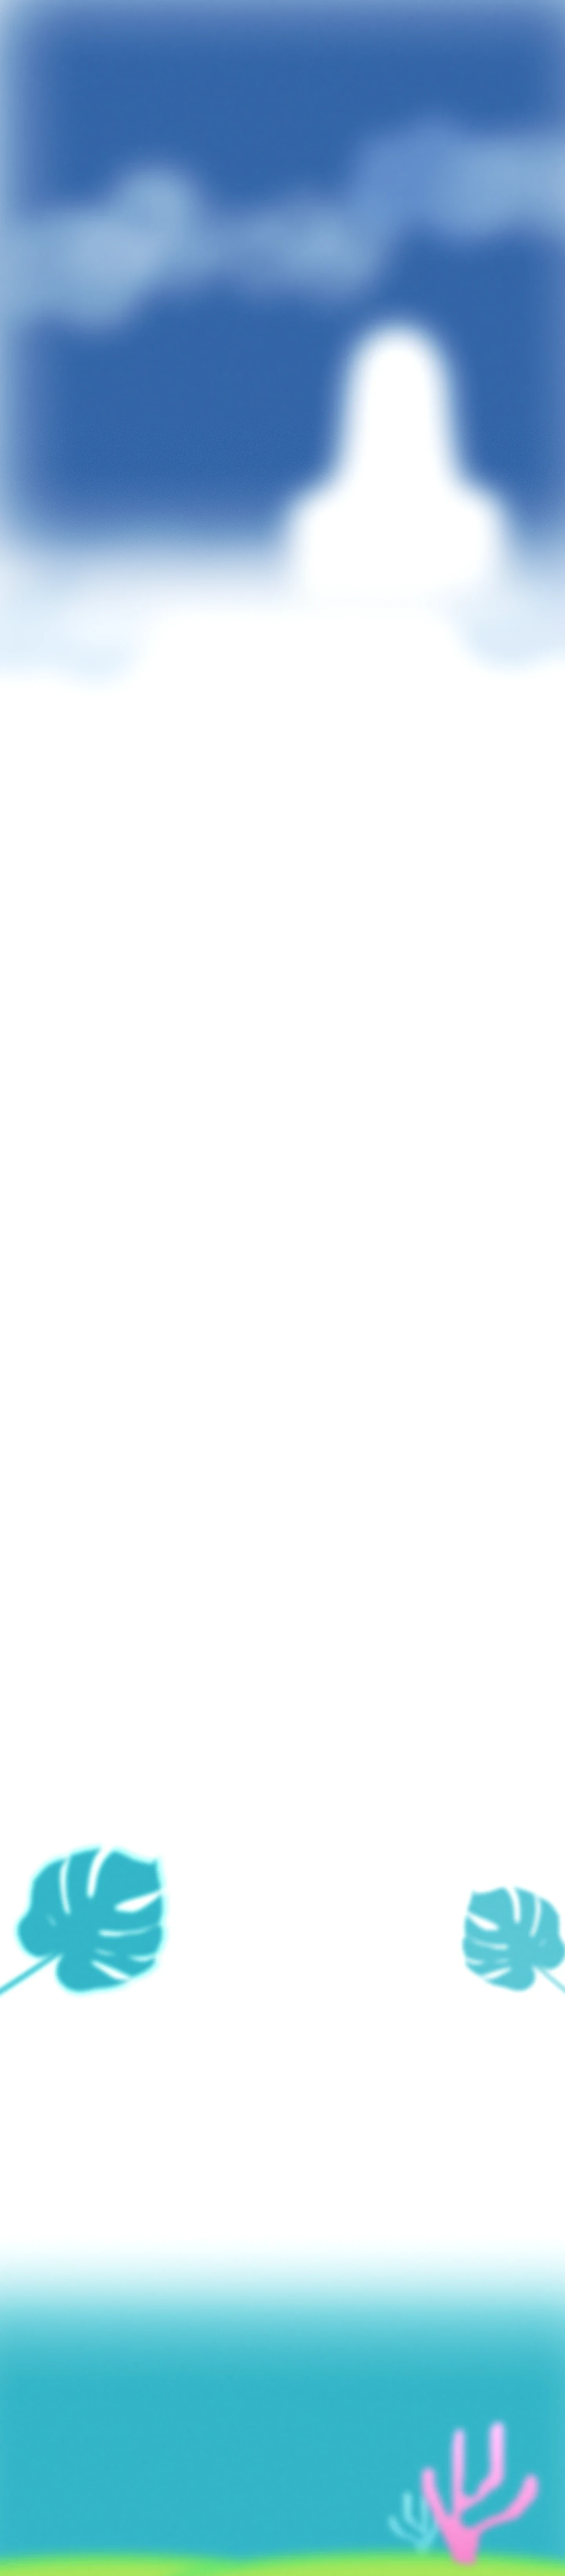
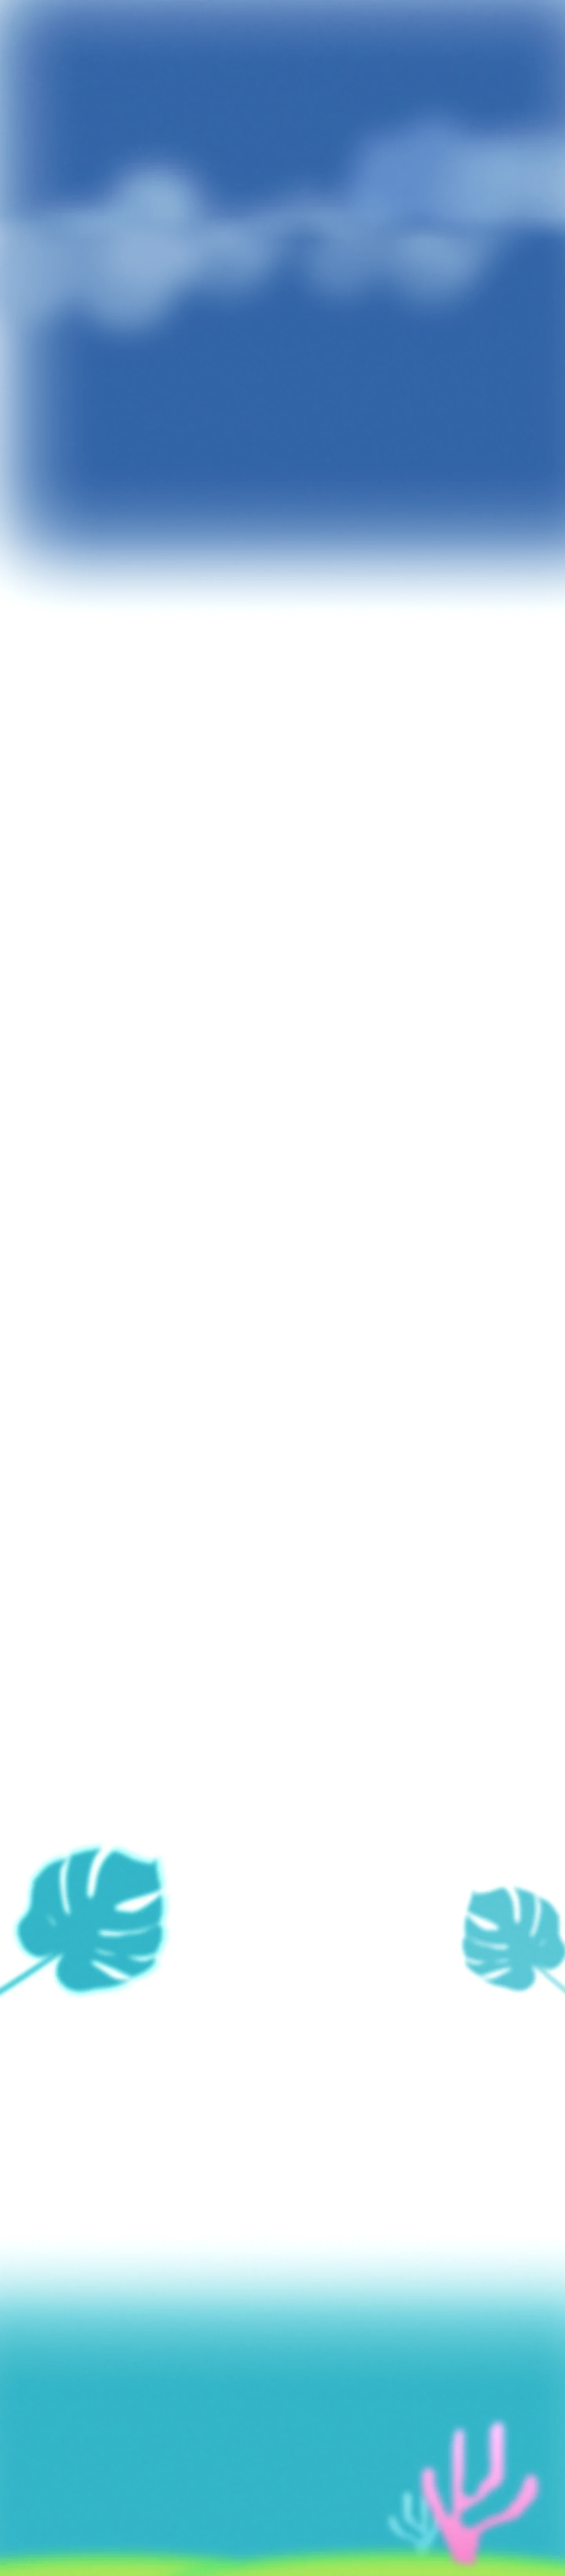
About → Work: the cloud shape glides to the centre, the clouds part
Replaces the parallax. As About scrolls away the white cloud shape (with the
"?" on it) moves to the centre and settles a little smaller and lower, while
the blue cloud bank parts up and out to the sides and fades, leaving the
smooth sky edge above My work (as in the Figma frame).

- sky-puff.webp: the white shape exported from Figma on its own; the
  background underneath now holds the bare sky (colour-matched to the site)
- the two cloud halves cross-fade over the middle so parting leaves no seam
- phones and reduced-motion: no movement

Claude-Session: https://claude.ai/code/session_01DvA43kwznhfsetrajp2DeL

diff --git a/script.js b/script.js
@@ -87,24 +87,37 @@ if (sparkle && matchMedia('(hover: hover) and (pointer: fine)').matches) {
   addEventListener('pointerup', () => sparkle.classList.remove('press'));
 }
 
-// Parallax: the bank of blue clouds between About and Work drifts slower than
-// the page (75% of the scroll speed), so the Work section slides up over the sky.
-const clouds = document.getElementById('cloudsPx');
-const CLOUDS_MID = 1190 + 350;   // the layer's centre on the 1440px stage
+// About → Work transition: as About scrolls away, the white cloud shape (and the
+// "?" sitting on it) glides to the centre and settles a little smaller, while the
+// blue cloud bank parts to the sides, leaving a smooth edge above My work.
+const puff = document.getElementById('skyPuff');
+const cloudsL = document.getElementById('cloudsL'), cloudsR = document.getElementById('cloudsR');
+const qbtn = document.querySelector('#about .qbtn');
+const PUFF_CX = 661 + 695 / 2, PUFF_BOTTOM = 765 + 855;   // the shape's centre line and bottom on the stage
+const Q = { x: 958.66 + 53, y: 859 + 131.37 + 98 };          // centre of the "?" on the stage
 const reduceMotion = matchMedia('(prefers-reduced-motion: reduce)');
-let cloudsQueued = false;
-function moveClouds() {
-  cloudsQueued = false;
-  if (MOBILE.matches || reduceMotion.matches) { clouds.style.transform = ''; return; }
+let skyQueued = false;
+function moveSky() {
+  skyQueued = false;
+  const off = MOBILE.matches || reduceMotion.matches;
+  // progress: 0 while About fills the screen, 1 once My work reaches the upper part of it
   const z = parseFloat(stage.style.zoom) || 1;
-  // distance of the layer's centre from the middle of the screen, in screen px
-  const d = stage.getBoundingClientRect().top + CLOUDS_MID * z - innerHeight / 2;
-  const ty = Math.max(-140, Math.min(140, -.25 * d / z));
-  clouds.style.transform = `translate3d(0, ${ty.toFixed(1)}px, 0)`;
+  const top = -stage.getBoundingClientRect().top / z;        // stage y at the top of the screen
+  const t = off ? 0 : Math.max(0, Math.min(1, (top - 700) / 750));
+  const e = t * t * (3 - 2 * t);                              // ease in and out
+  const s = 1 - .25 * e, dx = (720 - PUFF_CX) * e, dy = 70 * e;
+  puff.style.transform = e ? `translate(${dx.toFixed(1)}px, ${dy.toFixed(1)}px) scale(${s.toFixed(3)})` : '';
+  // the "?" rides along: same move, scaled around the shape's bottom centre
+  const qx = PUFF_CX + (Q.x - PUFF_CX) * s + dx - Q.x, qy = PUFF_BOTTOM + (Q.y - PUFF_BOTTOM) * s + dy - Q.y;
+  if (qbtn) qbtn.style.transform = e ? `translate(${qx.toFixed(1)}px, ${qy.toFixed(1)}px) scale(${s.toFixed(3)})` : '';
+  const cx = 380 * e, cy = -170 * e, o = (1 - .85 * e).toFixed(3);
+  cloudsL.style.transform = e ? `translate(${-cx}px, ${cy}px)` : '';
+  cloudsR.style.transform = e ? `translate(${cx}px, ${cy}px)` : '';
+  cloudsL.style.opacity = cloudsR.style.opacity = e ? o : '';
 }
-if (clouds) {
-  const queueClouds = () => { if (!cloudsQueued) { cloudsQueued = true; requestAnimationFrame(moveClouds); } };
-  addEventListener('scroll', queueClouds, { passive: true });
-  addEventListener('resize', queueClouds);
-  moveClouds();
+if (puff && cloudsL && cloudsR) {
+  const queueSky = () => { if (!skyQueued) { skyQueued = true; requestAnimationFrame(moveSky); } };
+  addEventListener('scroll', queueSky, { passive: true });
+  addEventListener('resize', queueSky);
+  moveSky();
 }

diff --git a/index.html b/index.html
@@ -11,7 +11,7 @@
   <link rel="preconnect" href="https://fonts.googleapis.com">
   <link rel="preconnect" href="https://fonts.gstatic.com" crossorigin>
   <link rel="stylesheet" href="https://fonts.googleapis.com/css2?family=Archivo:wdth,wght@125,400;125,700&family=Italiana&family=Unbounded:wght@300;400;500&display=swap">
-  <link rel="stylesheet" href="styles.css?v=9c980485">
+  <link rel="stylesheet" href="styles.css?v=a99400b5">
   <script>document.documentElement.classList.add('js', 'is-loading')</script>
 </head>
 <body>
@@ -58,9 +58,12 @@
 
 
     <!-- About -->
-    <!-- The bank of blue clouds between About and Work, cut out of the background
-         so it can drift slower than the page (parallax, script.js) -->
-    <img class="l clouds-px" id="cloudsPx" style="--x:0;--y:1190px;--w:1440px;--h:700px" src="assets/clouds.webp" alt="">
+    <!-- About → Work transition (script.js): the white cloud shape behind the "?"
+         glides to the centre while the blue cloud bank parts to the sides. Both are
+         cut out of the background so they can move. -->
+    <img class="l sky-puff" id="skyPuff" style="--x:661px;--y:765px;--w:695px;--h:855px" src="assets/sky-puff.webp" alt="">
+    <img class="l clouds-px clouds-l" id="cloudsL" style="--x:0;--y:1190px;--w:1440px;--h:700px" src="assets/clouds.webp" alt="">
+    <img class="l clouds-px clouds-r" id="cloudsR" style="--x:0;--y:1190px;--w:1440px;--h:700px" src="assets/clouds.webp" alt="">
 
     <section class="sec" id="about" style="top:859px" aria-labelledby="hello">
       <h2 class="l reveal type" id="hello" style="--d:0s;--x:178.65px;--y:11.58px"><img src="assets/type-hello.svg" width="306" height="121" alt="Hello,"></h2>
@@ -201,7 +204,7 @@
   </div>
 
   <script src="loader.js?v=68ee955a"></script>
-  <script src="script.js?v=d208127c"></script>
+  <script src="script.js?v=2f54cb3b"></script>
   <script src="about.js?v=37dfe53c"></script>
   <script src="chameleon.js?v=6754f284"></script>
 </body>

diff --git a/styles.css b/styles.css
@@ -74,8 +74,13 @@ body {
           mask-composite: exclude;
 }
 
-/* the cloud bank between About and Work; script.js moves it with the scroll */
-.clouds-px { pointer-events: none; will-change: transform; }
+/* About → Work transition (script.js moves these with the scroll): the white
+   cloud shape glides to the centre, the blue cloud bank parts left and right */
+.sky-puff, .clouds-px { pointer-events: none; will-change: transform, opacity; }
+.sky-puff { transform-origin: 50% 100%; }
+/* the two halves cross-fade over the middle third, so parting them leaves no seam */
+.clouds-l { -webkit-mask-image: linear-gradient(to right, #000 33%, transparent 67%); mask-image: linear-gradient(to right, #000 33%, transparent 67%); }
+.clouds-r { -webkit-mask-image: linear-gradient(to left, #000 33%, transparent 67%); mask-image: linear-gradient(to left, #000 33%, transparent 67%); }
 
 @media (prefers-reduced-motion: reduce) {
   body::after { animation: none; }
@@ -513,7 +518,7 @@ a:focus-visible { outline: 2px solid var(--white); outline-offset: 4px; }
 @media (max-width: 760px) {
   .stage { width: 100%; height: auto; background: #fff; display: flex; flex-direction: column; }
   .hero { order: 1; } #about { order: 2; } #work { order: 3; } .sunset { order: 4; } #contact { order: 5; }
-  .bird, .fish, .clouds-px, .stage .nav { display: none !important; }
+  .bird, .fish, .sky-puff, .clouds-px, .stage .nav { display: none !important; }
 
   .sec {
     position: relative; top: auto !important; width: 100%; padding: 0 20px;
